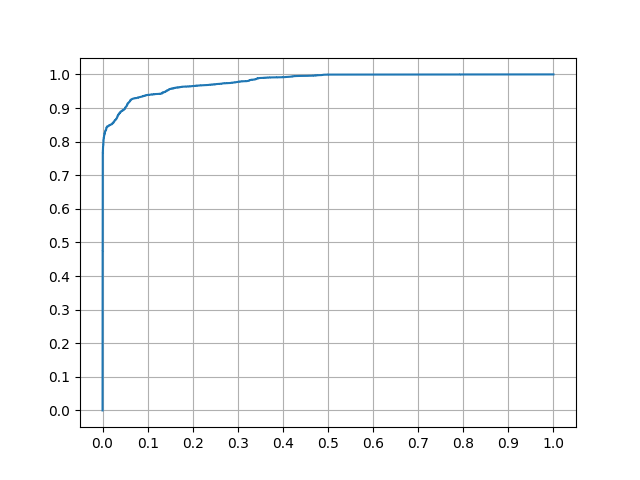
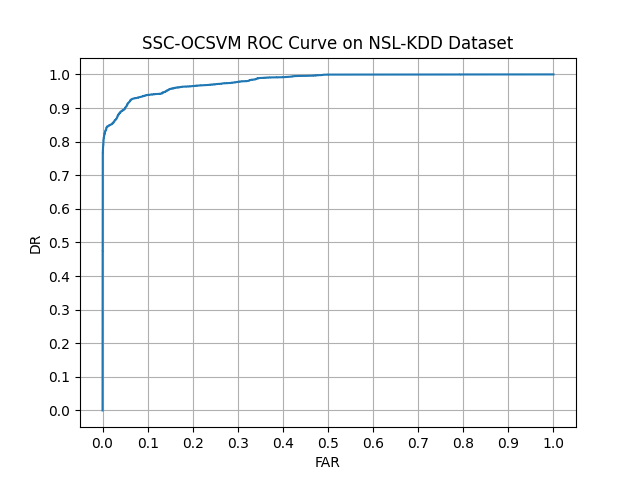
[replication] chore: added labelling to Pu et al. replication ROC curve

Changed region(s): [[0.2188, 0.0625, 0.8125, 0.125], [0.5, 0.9375, 0.5312, 0.9688], [0.0312, 0.5, 0.0625, 0.5312]]

diff --git a/src/replication/unsupervised.py b/src/replication/unsupervised.py
@@ -1,3 +1,4 @@
+import pickle
 import numpy as np
 import pandas as pd
 from sklearn.metrics import classification_report, roc_curve
@@ -24,12 +25,16 @@ print('Training...')
 model.fit(probe_X_train, probe_y_train)
 print('Generating predictions...')
 similarity = model.decision_function(probe_X_test)
+pickle.dump(similarity, open('/mnt/d/Calvin/FYP/temp/uns_rep_sim.pkl', 'wb'))
 print('Complete')
 fpr, tpr, _ = roc_curve(probe_y_test == 0, similarity)
 plt.plot(fpr, tpr)
+plt.xlabel('FAR')
+plt.ylabel('DR')
+plt.title('SSC-OCSVM ROC Curve on NSL-KDD Dataset')
 plt.xticks(np.arange(0, 1.1, 0.1))
 plt.yticks(np.arange(0, 1.1, 0.1)) 
 plt.grid(True)
 plt.savefig(f'results/replication/unsupervised/{SUBSET}_roc.png')
-
+# TODO: refactor graph code into seperate file
 # print(classification_report(probe_y_test != 0, y_pred))
